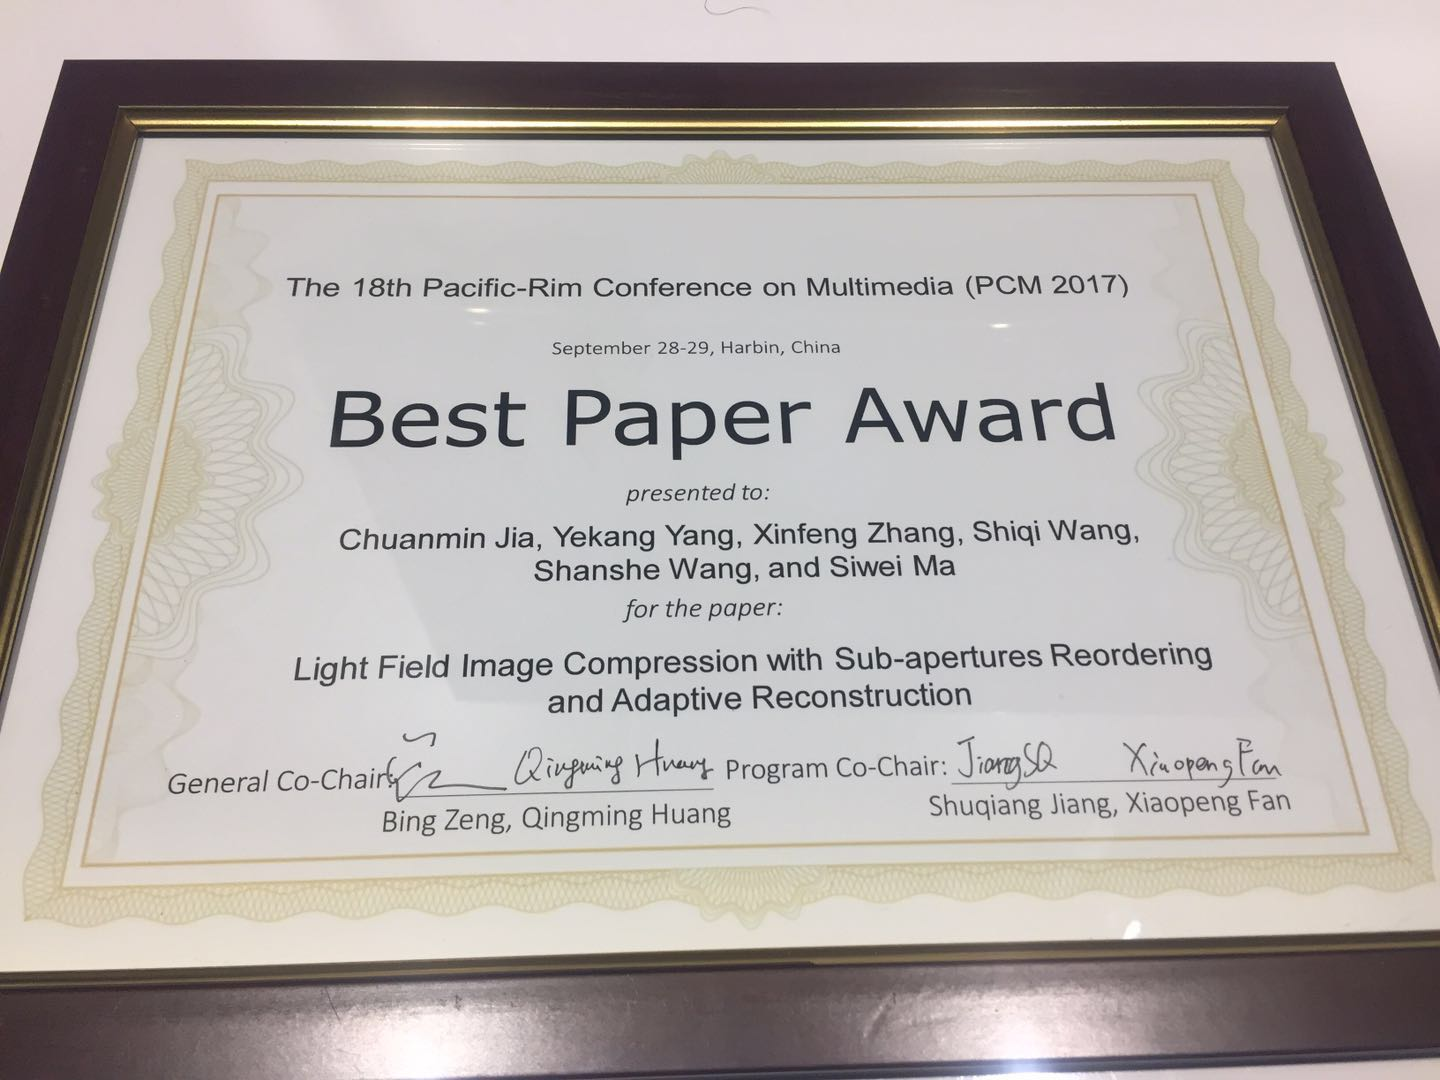
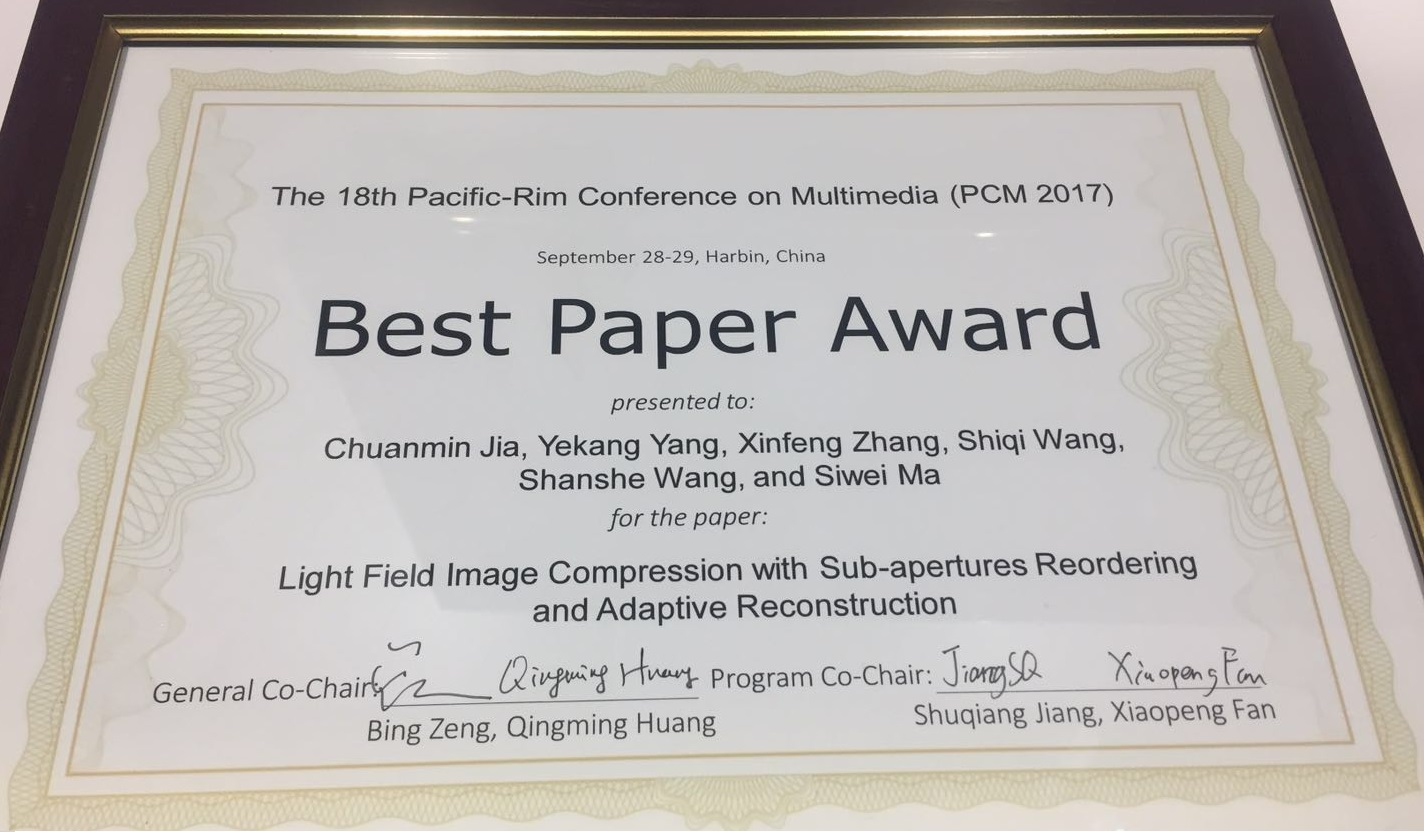
update pcm image.

diff --git a/publications.html b/publications.html
@@ -57,7 +57,7 @@
 
         <h2><font size="4" >Conference papers</font></h2><ul>
 			<font size="2" >  
-            <li><strong>C. Jia</strong>, Y. Yang, X. Zhang, S. Wang, S. Wang and S. Ma. Optimized Inter-View Prediction Based Light Field Image Compression With Adaptive Reconstruction. <i>proceedings of IEEE International Conference on Image Processing (ICIP), Beijing, China, 2017. </i>[<a href="papers/pcm2017.pdf" target="_blank">PDF</a>] [<a href="slides/icip17_slides_v4.pdf" target="_blank">Slides</a>]                
+            <li><strong>C. Jia</strong>, Y. Yang, X. Zhang, S. Wang, S. Wang and S. Ma. Light Field Image Compression with Sub-apertures Reordering and Adaptive Reconstruction. <i>proceedings of the Pacific-Rim Conference on Multimedia (PCM), Harbin, China, 2017. </i>[<a href="papers/pcm2017.pdf" target="_blank">PDF</a>] [<a href="img/pcm2017.jpg" target="_blank" style="color:red">Best Paper Award</a>]                
             <li><strong>C. Jia</strong>, Y. Yang, X. Zhang, X. Zhang, S. Wang, S. Wang and S. Ma. Optimized Inter-View Prediction Based Light Field Image Compression With Adaptive Reconstruction. <i>proceedings of IEEE International Conference on Image Processing (ICIP), Beijing, China, 2017. </i>[<a href="papers/icip2017.pdf" target="_blank">PDF</a>] [<a href="slides/icip17_slides_v4.pdf" target="_blank">Slides</a>]			
             <li><strong>C. Jia</strong>, X. Zhang, S. Wang, J. Zhang and S. Ma. Deep Convolutional Network based Image Quality Enhancement for Low Bit Rate Image Compression. <i>proceedings of IEEE Visual Communication and Image Processing (VCIP), Chengdu, China, 2016. </i>[<a href="papers/vcip2016.pdf" target="_blank">PDF</a>]
             <li>J. Zhang, <strong>C. Jia</strong>, N. Zhang, S. Ma and W. Gao. Structure-driven Adaptive Non-local Filter for High Efficiency Video Coding (HEVC). <i>IEEE Data Compression Conference (DCC), 2016. </i>[<a href="papers/DCC2016.pdf" target="_blank">PDF</a>]
